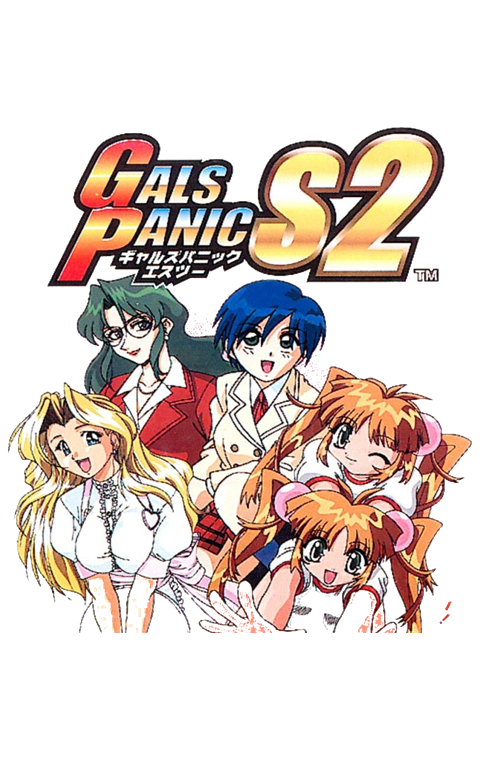
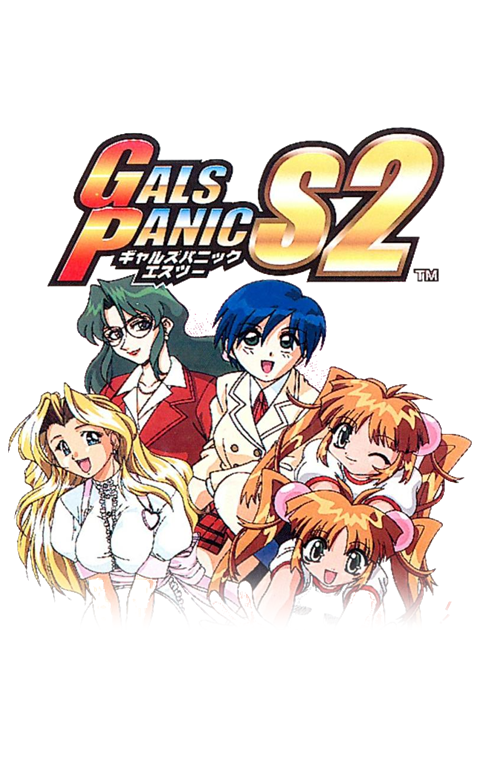
layouts | MAME Adult 마스코트 하단 절단선을 알파 페이드로 해소 (ISSUES 37)
갈스 패닉 S2 그룹샷 컷아웃은 피사체가 y=632 에서 수평선으로 끝났다(최외곽 불투명 행이
피사체 폭의 26%, 정상 컷아웃은 0~11%). NEVATO 는 캔버스를 0.156*화면높이에 그리므로
이 절단선이 화면 중간에 떴다.

아케이드 뮤지엄의 갈스 패닉 전단 7장(무인·II 2종·4·S 앞뒤·S2)을 전부 받아 봤지만
단일 인물은 문구·말풍선이 겹치거나 사진 배경이라 깨끗한 컷아웃이 안 나온다.
그래서 현재 컷아웃의 하단 90px 를 fade-edge.ps1 -Bottom 90 으로 페이드시켰다.

재측정 (audit.ps1 -Section mascot): 직선 컷 26% -> 6%, 투명 56.1 -> 56.9%, 가장자리 100%.
NEVATO·Console Box 동일 파일. validate.ps1 FAIL 0 / WARN 0.

Claude-Session: https://claude.ai/code/session_01XQPXNEC6mT15ACeWHcAzWx

Changed region(s): [[0.0625, 0.7263, 0.9062, 0.8474], [0.9062, 0.7868, 0.9375, 0.8171]]

diff --git a/docs/ISSUES.md b/docs/ISSUES.md
@@ -760,7 +760,11 @@ NXL HD 한글 리터럴을 실제 그리는 폰트와 대조해 빠진 글리프
 > **9건의 "처리 완료"는 전부 저장소 상태로 확인됐다.** 대신 실행 확인이 한 건도 없었고, 새 마스코트에 다른 종류의 규격 위반이 있었다.
 > 이번에 손으로 찾은 것은 `audit.ps1` 에 검사로 넣었다(직선 컷 · `layout.nut` 철자 · 옵션 자리표시자 · 정책상 중복 쌍).
 
-### - [ ] 37. MAME Adult 마스코트 — 컷아웃이지만 허리 아래가 **직선으로 잘려** 있다
+### - [x] 37. MAME Adult 마스코트 — 컷아웃이지만 허리 아래가 **직선으로 잘려** 있다 — **처리 완료**
+
+**조치 (2026-09-04)**: 단일 인물 소재를 못 구해(아래) 현재 컷아웃의 하단 90px 를 `fade-edge.ps1 -Bottom 90` 으로 알파 페이드시켰다
+(smoothstep 램프, 페이드 시작선이 보이지 않는다). 재측정: 직선 컷 **26% → 6%**, 투명 56.1 → 56.9%, 가장자리 100%. NEVATO·Console Box 양쪽 동일.
+`audit.ps1 -Section mascot` 의 컷 지표는 알파 가중치로 재서 페이드된 변은 통과하고 직선 컷만 잡는다.
 
 28번 2차 조치의 갈스 패닉 S2 그룹샷(로고 + 5명)은 피사체가 y=632 에서 수평선으로 끝난다.
 20종 전부에서 "최외곽 불투명 행이 피사체 폭의 몇 %를 차지하는지"를 재보면 자연스러운 실루엣(발끝·머리끝)은 0~11% 인데 이것은 **26%** 다.
